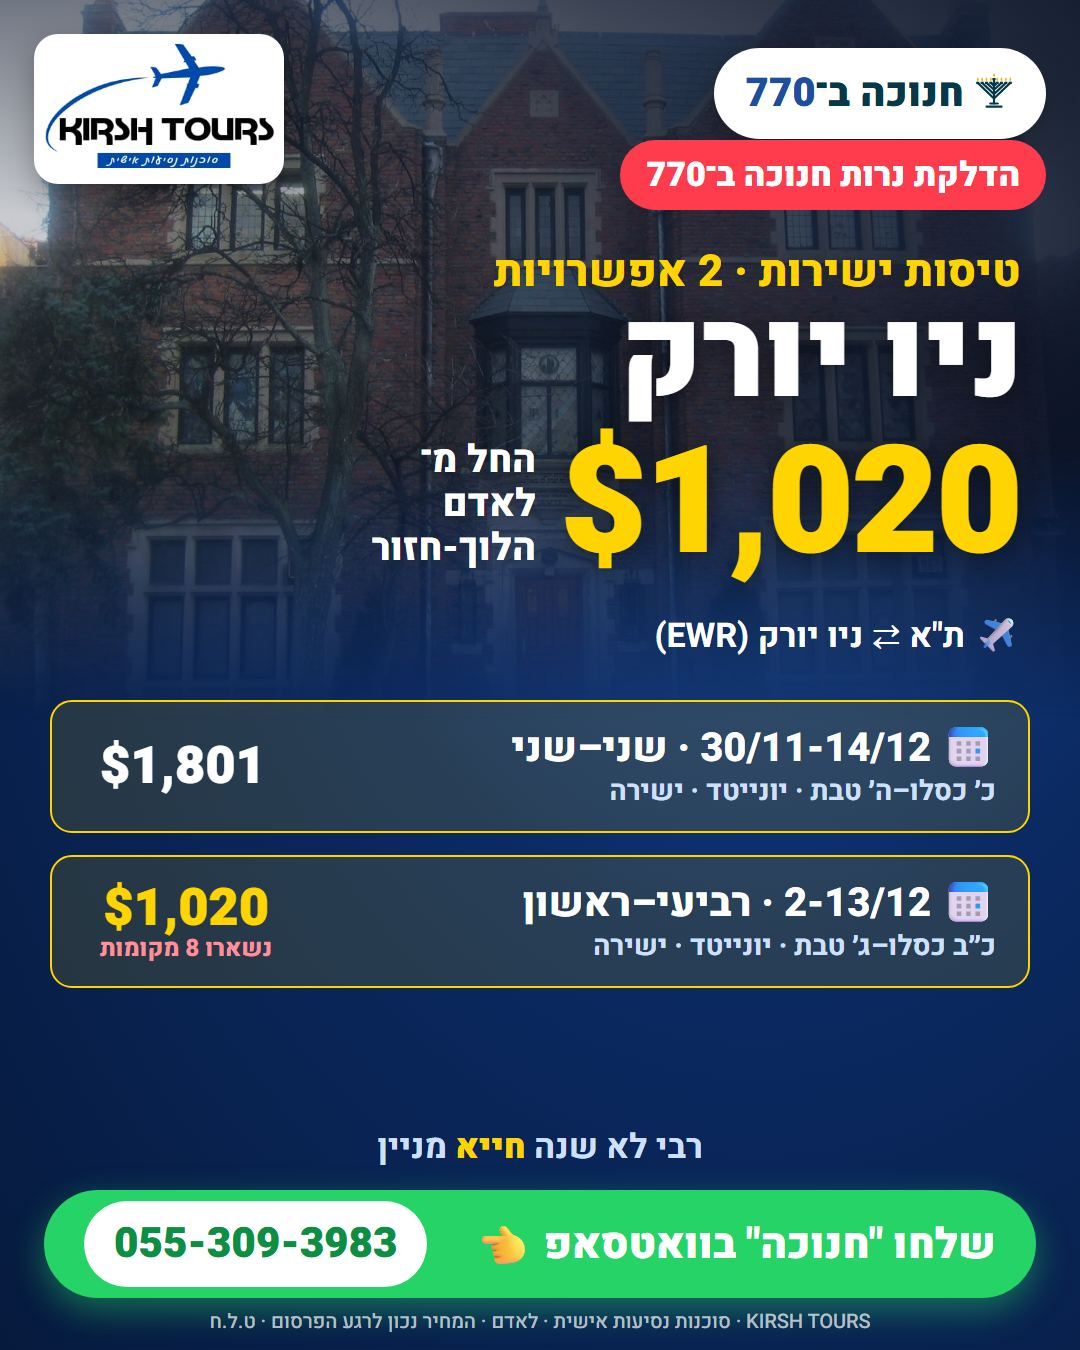
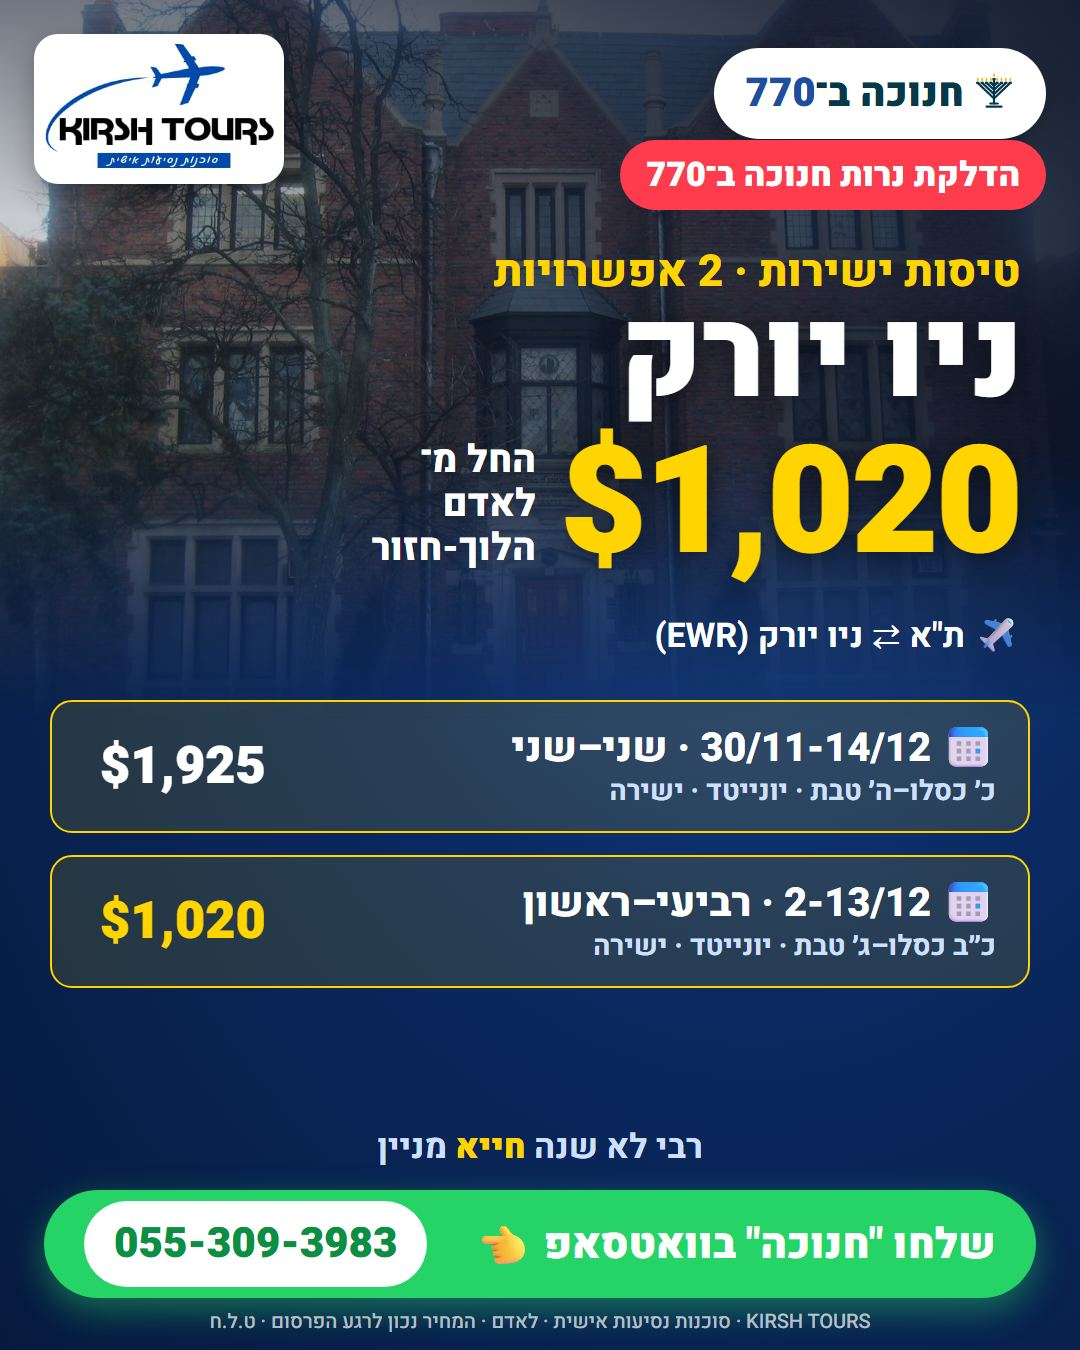
דילים 2026-11-11

Changed region(s): [[0.0917, 0.6533, 0.2444, 0.7156], [0.1528, 0.5289, 0.2444, 0.5911]]

diff --git a/770/hanukkah/index.html b/770/hanukkah/index.html
@@ -4,12 +4,12 @@
 <meta charset="utf-8">
 <meta name="viewport" content="width=device-width, initial-scale=1">
 <title>חנוכה ב-770: טיסה ישירה לניו יורק החל מ-$1,020 | Kirsh Tours</title>
-<meta name="description" content="טיסות לניו יורק לחנוכה ב-770: 30/11-14/12 יונייטד $1,801, 2-13/12 יונייטד $1,020. לאדם הלוך-חזור, עם ליווי אישי.">
+<meta name="description" content="טיסות לניו יורק לחנוכה ב-770: 30/11-14/12 יונייטד $1,925, 2-13/12 יונייטד $1,020. לאדם הלוך-חזור, עם ליווי אישי.">
 <meta property="og:type" content="website">
 <meta property="og:locale" content="he_IL">
 <meta property="og:site_name" content="Kirsh Tours">
 <meta property="og:title" content="חנוכה ב-770: טיסה ישירה לניו יורק החל מ-$1,020 | Kirsh Tours">
-<meta property="og:description" content="טיסות לניו יורק לחנוכה ב-770: 30/11-14/12 יונייטד $1,801, 2-13/12 יונייטד $1,020. לאדם הלוך-חזור, עם ליווי אישי.">
+<meta property="og:description" content="טיסות לניו יורק לחנוכה ב-770: 30/11-14/12 יונייטד $1,925, 2-13/12 יונייטד $1,020. לאדם הלוך-חזור, עם ליווי אישי.">
 <meta property="og:url" content="https://kirshtours.co.il/770/hanukkah/">
 <link rel="canonical" href="https://kirshtours.co.il/770/hanukkah/">
 
@@ -49,15 +49,15 @@
     <div class="block"><div class="kicker" data-reveal><b>01</b> בוחרים תאריך</div>
     <div class="dates"><div class="date" data-o="2026-11-30" data-exp="2026-11-25" data-reveal>
     <div class="when">30/11-14/12<span>שני–שני</span><span>כ׳ כסלו–ה׳ טבת</span></div>
-    <div class="p">$1,801<small>לאדם · הלוך-חזור</small></div>
-    <div class="fl"><b>יונייטד</b> · ישירה · EWR · מזוודה 23 ק"ג<span class="rowfresh" data-checked="2026-11-11T10:08:49.687Z"></span></div>
+    <div class="p">$1,925<small>לאדם · הלוך-חזור</small></div>
+    <div class="fl"><b>יונייטד</b> · ישירה · EWR · מזוודה 23 ק"ג<span class="rowfresh" data-checked="2026-11-11T12:06:22.243Z"></span></div>
     <div class="fl">הלוך: שני 30.11 · כ׳ כסלו, 11:30 · נחיתה 16:35</div>
     <div class="fl">חזור: שני 14.12 · ה׳ טבת, 20:40 (ליל שלישי) · נחיתה בארץ שלישי 15.12, 14:05</div>
   </div>
 <div class="date best" data-o="2026-12-02" data-exp="2026-11-25" data-reveal>
-    <div class="when">2-13/12<span>רביעי–ראשון</span><span>כ״ב כסלו–ג׳ טבת</span><span class="best-tag">הכי משתלם</span><span class="seats770 best-tag" data-checked="2026-11-11T10:08:49.687Z" hidden>נשארו 8 מקומות</span></div>
+    <div class="when">2-13/12<span>רביעי–ראשון</span><span>כ״ב כסלו–ג׳ טבת</span><span class="best-tag">הכי משתלם</span></div>
     <div class="p">$1,020<small>לאדם · הלוך-חזור</small></div>
-    <div class="fl"><b>יונייטד</b> · ישירה · EWR · מזוודה 23 ק"ג<span class="rowfresh" data-checked="2026-11-11T10:08:49.687Z"></span></div>
+    <div class="fl"><b>יונייטד</b> · ישירה · EWR · מזוודה 23 ק"ג<span class="rowfresh" data-checked="2026-11-11T12:06:22.243Z"></span></div>
     <div class="fl">הלוך: רביעי 2.12 · כ״ב כסלו, 11:30 · נחיתה 16:35</div>
     <div class="fl">חזור: ראשון 13.12 · ג׳ טבת, 15:55 · נחיתה בארץ שני 14.12, 09:20</div>
   </div></div>
@@ -77,14 +77,14 @@
   </div>
   <aside class="side" data-reveal style="--d:.2s"><div class="book">
     <div class="from">החל מ-<b>$1,020</b> לאדם הלוך-חזור</div>
-    <span class="fresh770" data-checked="2026-11-11T10:08:49.687Z" hidden></span>
+    <span class="fresh770" data-checked="2026-11-11T12:06:22.243Z" hidden></span>
     <a class="btn btn-gold" href="https://wa.me/972553093983?text=%D7%97%D7%A0%D7%95%D7%9B%D7%94%20-%20%D7%94%D7%99%D7%99%20%D7%97%D7%99%D7%99%D7%9D%2C%20%D7%A8%D7%90%D7%99%D7%AA%D7%99%20%D7%91%D7%90%D7%AA%D7%A8%20%D7%90%D7%AA%20%D7%94%D7%98%D7%99%D7%A1%D7%95%D7%AA%20%D7%9C-770%20%D7%9C%D7%97%D7%A0%D7%95%D7%9B%D7%94">שלחו "חנוכה" בוואטסאפ</a>
     <a class="wa-alt" href="https://chat.whatsapp.com/BcfctsrvwkJ3zMRZy6gM3L">להצטרף לקבוצת "טסים חכם ל-770"</a>
     <ul class="perks"><li>המקומות במחיר הזה מוגבלים</li></ul>
     <a class="wa-alt" href="../#groups">טסים כקבוצה או משפחה? לבקשת הצעה</a>
-    <a class="share" href="https://wa.me/?text=%D7%97%D7%A0%D7%95%D7%9B%D7%94%20%D7%91-770%20-%20%D7%98%D7%99%D7%A1%D7%94%20%D7%9C%D7%A0%D7%99%D7%95%20%D7%99%D7%95%D7%A8%D7%A7%20%D7%94%D7%97%D7%9C%20%D7%9E-%241%2C020%20%D7%9C%D7%90%D7%93%D7%9D%20%D7%94%D7%9C%D7%95%D7%9A-%D7%97%D7%96%D7%95%D7%A8%0A%0A30%2F11-14%2F12%20(%D7%9B%D7%B3%20%D7%9B%D7%A1%D7%9C%D7%95%E2%80%93%D7%94%D7%B3%20%D7%98%D7%91%D7%AA)%20%C2%B7%20%D7%99%D7%95%D7%A0%D7%99%D7%99%D7%98%D7%93%20%C2%B7%20%D7%99%D7%A9%D7%99%D7%A8%D7%94%20%C2%B7%20%241%2C801%0A2-13%2F12%20(%D7%9B%D7%B4%D7%91%20%D7%9B%D7%A1%D7%9C%D7%95%E2%80%93%D7%92%D7%B3%20%D7%98%D7%91%D7%AA)%20%C2%B7%20%D7%99%D7%95%D7%A0%D7%99%D7%99%D7%98%D7%93%20%C2%B7%20%D7%99%D7%A9%D7%99%D7%A8%D7%94%20%C2%B7%20%241%2C020%0A%0A%D7%9B%D7%9C%20%D7%94%D7%A4%D7%A8%D7%98%D7%99%D7%9D%20%D7%91%D7%90%D7%AA%D7%A8%3A%0Ahttps%3A%2F%2Fkirshtours.co.il%2F770%2Fhanukkah%2F%0A%0A%D7%A8%D7%95%D7%A6%D7%99%D7%9D%20%D7%9C%D7%A7%D7%91%D7%9C%20%D7%A8%D7%90%D7%A9%D7%95%D7%A0%D7%99%D7%9D%20%D7%9C%D7%A0%D7%99%D7%99%D7%93%20%D7%90%D7%AA%20%D7%94%D7%98%D7%99%D7%A1%D7%95%D7%AA%20%D7%94%D7%9E%D7%A9%D7%AA%D7%9C%D7%9E%D7%95%D7%AA%20%D7%91%D7%99%D7%95%D7%AA%D7%A8%20%D7%9C-770%3F%20%D7%94%D7%A6%D7%98%D7%A8%D7%A4%D7%95%20%D7%9C%D7%A7%D7%91%D7%95%D7%A6%D7%AA%20%22%D7%98%D7%A1%D7%99%D7%9D%20%D7%97%D7%9B%D7%9D%20%D7%9C-770%22%3A%0Ahttps%3A%2F%2Fchat.whatsapp.com%2FBcfctsrvwkJ3zMRZy6gM3L" data-share="חנוכה ב-770 - טיסה לניו יורק החל מ-$1,020 לאדם הלוך-חזור
+    <a class="share" href="https://wa.me/?text=%D7%97%D7%A0%D7%95%D7%9B%D7%94%20%D7%91-770%20-%20%D7%98%D7%99%D7%A1%D7%94%20%D7%9C%D7%A0%D7%99%D7%95%20%D7%99%D7%95%D7%A8%D7%A7%20%D7%94%D7%97%D7%9C%20%D7%9E-%241%2C020%20%D7%9C%D7%90%D7%93%D7%9D%20%D7%94%D7%9C%D7%95%D7%9A-%D7%97%D7%96%D7%95%D7%A8%0A%0A30%2F11-14%2F12%20(%D7%9B%D7%B3%20%D7%9B%D7%A1%D7%9C%D7%95%E2%80%93%D7%94%D7%B3%20%D7%98%D7%91%D7%AA)%20%C2%B7%20%D7%99%D7%95%D7%A0%D7%99%D7%99%D7%98%D7%93%20%C2%B7%20%D7%99%D7%A9%D7%99%D7%A8%D7%94%20%C2%B7%20%241%2C925%0A2-13%2F12%20(%D7%9B%D7%B4%D7%91%20%D7%9B%D7%A1%D7%9C%D7%95%E2%80%93%D7%92%D7%B3%20%D7%98%D7%91%D7%AA)%20%C2%B7%20%D7%99%D7%95%D7%A0%D7%99%D7%99%D7%98%D7%93%20%C2%B7%20%D7%99%D7%A9%D7%99%D7%A8%D7%94%20%C2%B7%20%241%2C020%0A%0A%D7%9B%D7%9C%20%D7%94%D7%A4%D7%A8%D7%98%D7%99%D7%9D%20%D7%91%D7%90%D7%AA%D7%A8%3A%0Ahttps%3A%2F%2Fkirshtours.co.il%2F770%2Fhanukkah%2F%0A%0A%D7%A8%D7%95%D7%A6%D7%99%D7%9D%20%D7%9C%D7%A7%D7%91%D7%9C%20%D7%A8%D7%90%D7%A9%D7%95%D7%A0%D7%99%D7%9D%20%D7%9C%D7%A0%D7%99%D7%99%D7%93%20%D7%90%D7%AA%20%D7%94%D7%98%D7%99%D7%A1%D7%95%D7%AA%20%D7%94%D7%9E%D7%A9%D7%AA%D7%9C%D7%9E%D7%95%D7%AA%20%D7%91%D7%99%D7%95%D7%AA%D7%A8%20%D7%9C-770%3F%20%D7%94%D7%A6%D7%98%D7%A8%D7%A4%D7%95%20%D7%9C%D7%A7%D7%91%D7%95%D7%A6%D7%AA%20%22%D7%98%D7%A1%D7%99%D7%9D%20%D7%97%D7%9B%D7%9D%20%D7%9C-770%22%3A%0Ahttps%3A%2F%2Fchat.whatsapp.com%2FBcfctsrvwkJ3zMRZy6gM3L" data-share="חנוכה ב-770 - טיסה לניו יורק החל מ-$1,020 לאדם הלוך-חזור
 
-30/11-14/12 (כ׳ כסלו–ה׳ טבת) · יונייטד · ישירה · $1,801
+30/11-14/12 (כ׳ כסלו–ה׳ טבת) · יונייטד · ישירה · $1,925
 2-13/12 (כ״ב כסלו–ג׳ טבת) · יונייטד · ישירה · $1,020
 
 כל הפרטים באתר:

diff --git a/770/index.html b/770/index.html
@@ -76,15 +76,15 @@
 <a class="e770" href="hanukkah/" data-exp="2026-11-25" data-mon="כסלו" data-reveal>
     <div class="ev">חנוכה ב־770</div><span class="count770" data-start="2026-12-04" data-end="2026-12-12" data-name="חנוכה" hidden></span>
     <p class="line">הדלקת נרות חנוכה ב־770</p>
-    <div class="from"><span class="pre">החל מ-</span><b>$1,020</b> לאדם הלוך-חזור</div><span class="fresh770" data-checked="2026-11-11T10:08:49.687Z" hidden></span>
-    <ul><li data-exp="2026-11-25" data-direct="1" data-stay="l" data-price="1801" data-checked="2026-11-11T10:08:49.687Z"><span>30/11-14/12 · שני–שני<small>כ׳ כסלו–ה׳ טבת · יונייטד · ישירה<span class="rowfresh" data-checked="2026-11-11T10:08:49.687Z"></span></small></span><b>$1,801</b></li><li data-exp="2026-11-25" data-direct="1" data-stay="l" data-price="1020" data-checked="2026-11-11T10:08:49.687Z"><span>2-13/12 · רביעי–ראשון<small>כ״ב כסלו–ג׳ טבת · יונייטד · ישירה<span class="rowfresh" data-checked="2026-11-11T10:08:49.687Z"></span><span class="seats770" data-checked="2026-11-11T10:08:49.687Z" hidden> · נשארו 8 מקומות</span></small></span><b>$1,020</b></li></ul>
+    <div class="from"><span class="pre">החל מ-</span><b>$1,020</b> לאדם הלוך-חזור</div><span class="fresh770" data-checked="2026-11-11T12:06:22.243Z" hidden></span>
+    <ul><li data-exp="2026-11-25" data-direct="1" data-stay="l" data-price="1925" data-checked="2026-11-11T12:06:22.243Z"><span>30/11-14/12 · שני–שני<small>כ׳ כסלו–ה׳ טבת · יונייטד · ישירה<span class="rowfresh" data-checked="2026-11-11T12:06:22.243Z"></span></small></span><b>$1,925</b></li><li data-exp="2026-11-25" data-direct="1" data-stay="l" data-price="1020" data-checked="2026-11-11T12:06:22.243Z"><span>2-13/12 · רביעי–ראשון<small>כ״ב כסלו–ג׳ טבת · יונייטד · ישירה<span class="rowfresh" data-checked="2026-11-11T12:06:22.243Z"></span></small></span><b>$1,020</b></li></ul>
     <span class="go">לשעות הטיסה ולפרטים <span class="arrow" aria-hidden="true">←</span></span>
   </a>
 <a class="e770" href="yud-shvat/" data-exp="2026-11-25" data-mon="שבט" data-reveal>
     <div class="ev">י׳ שבט ב־770</div><span class="count770" data-start="2027-01-18" data-end="2027-01-18" data-name="י&#39; שבט" hidden></span>
     <p class="line">יום ההילולא וקבלת הנשיאות ב־770</p>
-    <div class="from"><span class="pre">החל מ-</span><b>$869</b> לאדם הלוך-חזור</div><span class="fresh770" data-checked="2026-11-11T10:12:50.020Z" hidden></span>
-    <ul><li data-exp="2026-11-25" data-direct="1" data-stay="l" data-price="1376" data-checked="2026-11-11T10:12:50.020Z"><span>10-19/1 · ראשון–שלישי<small>ב׳–י״א שבט · דלתא · ישירה<span class="rowfresh" data-checked="2026-11-11T10:12:50.020Z"></span><span class="seats770" data-checked="2026-11-11T10:12:50.020Z" hidden> · נשארו 6 מקומות</span></small></span><b>$1,376</b></li><li data-exp="2026-11-25" data-direct="1" data-stay="l" data-price="1455" data-checked="2026-11-11T10:12:50.020Z"><span>11-19/1 · שני–שלישי<small>ג׳–י״א שבט · דלתא · ישירה<span class="rowfresh" data-checked="2026-11-11T10:12:50.020Z"></span><span class="seats770" data-checked="2026-11-11T10:12:50.020Z" hidden> · נשארו 6 מקומות</span></small></span><b>$1,455</b></li><li data-exp="2026-11-25" data-direct="1" data-stay="m" data-price="1231" data-checked="2026-11-11T10:12:50.020Z"><span>12-19/1 · שלישי–שלישי<small>ד׳–י״א שבט · דלתא · ישירה<span class="rowfresh" data-checked="2026-11-11T10:12:50.020Z"></span><span class="seats770" data-checked="2026-11-11T10:12:50.020Z" hidden> · נשארו 6 מקומות</span></small></span><b>$1,231</b></li><li data-exp="2026-11-25" data-direct="1" data-stay="m" data-price="1231" data-checked="2026-11-11T10:12:50.020Z"><span>13-19/1 · רביעי–שלישי<small>ה׳–י״א שבט · דלתא · ישירה<span class="rowfresh" data-checked="2026-11-11T10:12:50.020Z"></span><span class="seats770" data-checked="2026-11-11T10:12:50.020Z" hidden> · נשארו 6 מקומות</span></small></span><b>$1,231</b></li><li data-exp="2026-11-25" data-direct="0" data-stay="m" data-price="869" data-checked="2026-11-11T10:12:50.020Z"><span>14-20/1 · חמישי–רביעי<small>ו׳–י״ב שבט · ITA · עצירה קצרה ברומא<span class="rowfresh" data-checked="2026-11-11T10:12:50.020Z"></span></small></span><b>$869</b></li></ul>
+    <div class="from"><span class="pre">החל מ-</span><b>$869</b> לאדם הלוך-חזור</div><span class="fresh770" data-checked="2026-11-11T12:08:17.317Z" hidden></span>
+    <ul><li data-exp="2026-11-25" data-direct="1" data-stay="l" data-price="1376" data-checked="2026-11-11T12:08:17.317Z"><span>10-19/1 · ראשון–שלישי<small>ב׳–י״א שבט · דלתא · ישירה<span class="rowfresh" data-checked="2026-11-11T12:08:17.317Z"></span><span class="seats770" data-checked="2026-11-11T12:08:17.317Z" hidden> · נשארו 6 מקומות</span></small></span><b>$1,376</b></li><li data-exp="2026-11-25" data-direct="1" data-stay="l" data-price="1455" data-checked="2026-11-11T12:08:17.317Z"><span>11-19/1 · שני–שלישי<small>ג׳–י״א שבט · דלתא · ישירה<span class="rowfresh" data-checked="2026-11-11T12:08:17.317Z"></span><span class="seats770" data-checked="2026-11-11T12:08:17.317Z" hidden> · נשארו 6 מקומות</span></small></span><b>$1,455</b></li><li data-exp="2026-11-25" data-direct="1" data-stay="m" data-price="1231" data-checked="2026-11-11T12:08:17.317Z"><span>12-19/1 · שלישי–שלישי<small>ד׳–י״א שבט · דלתא · ישירה<span class="rowfresh" data-checked="2026-11-11T12:08:17.317Z"></span><span class="seats770" data-checked="2026-11-11T12:08:17.317Z" hidden> · נשארו 6 מקומות</span></small></span><b>$1,231</b></li><li data-exp="2026-11-25" data-direct="1" data-stay="m" data-price="1231" data-checked="2026-11-11T12:08:17.317Z"><span>13-19/1 · רביעי–שלישי<small>ה׳–י״א שבט · דלתא · ישירה<span class="rowfresh" data-checked="2026-11-11T12:08:17.317Z"></span><span class="seats770" data-checked="2026-11-11T12:08:17.317Z" hidden> · נשארו 6 מקומות</span></small></span><b>$1,231</b></li><li data-exp="2026-11-25" data-direct="0" data-stay="m" data-price="869" data-checked="2026-11-11T12:08:17.317Z"><span>14-20/1 · חמישי–רביעי<small>ו׳–י״ב שבט · ITA · עצירה קצרה ברומא<span class="rowfresh" data-checked="2026-11-11T12:08:17.317Z"></span></small></span><b>$869</b></li></ul>
     <span class="go">לשעות הטיסה ולפרטים <span class="arrow" aria-hidden="true">←</span></span>
   </a>
 <a class="e770" href="kinus-shluchos/" data-exp="2026-11-25" data-mon="שבט" data-reveal>

diff --git a/770/yud-shvat/index.html b/770/yud-shvat/index.html
@@ -48,37 +48,37 @@
   <div>
     <div class="block"><div class="kicker" data-reveal><b>01</b> בוחרים תאריך</div>
     <div class="dates"><div class="date" data-o="2027-01-10" data-exp="2026-11-25" data-reveal>
-    <div class="when">10-19/1<span>ראשון–שלישי</span><span>ב׳–י״א שבט</span><span class="seats770 best-tag" data-checked="2026-11-11T10:12:50.020Z" hidden>נשארו 6 מקומות</span></div>
+    <div class="when">10-19/1<span>ראשון–שלישי</span><span>ב׳–י״א שבט</span><span class="seats770 best-tag" data-checked="2026-11-11T12:08:17.317Z" hidden>נשארו 6 מקומות</span></div>
     <div class="p">$1,376<small>לאדם · הלוך-חזור</small></div>
-    <div class="fl"><b>דלתא</b> · ישירה · JFK · מזוודה 23 ק"ג<span class="rowfresh" data-checked="2026-11-11T10:12:50.020Z"></span></div>
+    <div class="fl"><b>דלתא</b> · ישירה · JFK · מזוודה 23 ק"ג<span class="rowfresh" data-checked="2026-11-11T12:08:17.317Z"></span></div>
     <div class="fl">הלוך: ראשון 10.1 · ב׳ שבט, 11:05 · נחיתה 16:53</div>
     <div class="fl">חזור: שלישי 19.1 · י״א שבט, 15:25 · נחיתה בארץ רביעי 20.1, 08:50</div>
   </div>
 <div class="date" data-o="2027-01-11" data-exp="2026-11-25" data-reveal>
-    <div class="when">11-19/1<span>שני–שלישי</span><span>ג׳–י״א שבט</span><span class="seats770 best-tag" data-checked="2026-11-11T10:12:50.020Z" hidden>נשארו 6 מקומות</span></div>
+    <div class="when">11-19/1<span>שני–שלישי</span><span>ג׳–י״א שבט</span><span class="seats770 best-tag" data-checked="2026-11-11T12:08:17.317Z" hidden>נשארו 6 מקומות</span></div>
     <div class="p">$1,455<small>לאדם · הלוך-חזור</small></div>
-    <div class="fl"><b>דלתא</b> · ישירה · JFK · מזוודה 23 ק"ג<span class="rowfresh" data-checked="2026-11-11T10:12:50.020Z"></span></div>
+    <div class="fl"><b>דלתא</b> · ישירה · JFK · מזוודה 23 ק"ג<span class="rowfresh" data-checked="2026-11-11T12:08:17.317Z"></span></div>
     <div class="fl">הלוך: שני 11.1 · ג׳ שבט, 11:05 · נחיתה 16:53</div>
     <div class="fl">חזור: שלישי 19.1 · י״א שבט, 15:25 · נחיתה בארץ רביעי 20.1, 08:50</div>
   </div>
 <div class="date" data-o="2027-01-12" data-exp="2026-11-25" data-reveal>
-    <div class="when">12-19/1<span>שלישי–שלישי</span><span>ד׳–י״א שבט</span><span class="seats770 best-tag" data-checked="2026-11-11T10:12:50.020Z" hidden>נשארו 6 מקומות</span></div>
+    <div class="when">12-19/1<span>שלישי–שלישי</span><span>ד׳–י״א שבט</span><span class="seats770 best-tag" data-checked="2026-11-11T12:08:17.317Z" hidden>נשארו 6 מקומות</span></div>
     <div class="p">$1,231<small>לאדם · הלוך-חזור</small></div>
-    <div class="fl"><b>דלתא</b> · ישירה · JFK · מזוודה 23 ק"ג<span class="rowfresh" data-checked="2026-11-11T10:12:50.020Z"></span></div>
+    <div class="fl"><b>דלתא</b> · ישירה · JFK · מזוודה 23 ק"ג<span class="rowfresh" data-checked="2026-11-11T12:08:17.317Z"></span></div>
     <div class="fl">הלוך: שלישי 12.1 · ד׳ שבט, 11:05 · נחיתה 16:53</div>
     <div class="fl">חזור: שלישי 19.1 · י״א שבט, 15:25 · נחיתה בארץ רביעי 20.1, 08:50</div>
   </div>
 <div class="date" data-o="2027-01-13" data-exp="2026-11-25" data-reveal>
-    <div class="when">13-19/1<span>רביעי–שלישי</span><span>ה׳–י״א שבט</span><span class="seats770 best-tag" data-checked="2026-11-11T10:12:50.020Z" hidden>נשארו 6 מקומות</span></div>
+    <div class="when">13-19/1<span>רביעי–שלישי</span><span>ה׳–י״א שבט</span><span class="seats770 best-tag" data-checked="2026-11-11T12:08:17.317Z" hidden>נשארו 6 מקומות</span></div>
     <div class="p">$1,231<small>לאדם · הלוך-חזור</small></div>
-    <div class="fl"><b>דלתא</b> · ישירה · JFK · מזוודה 23 ק"ג<span class="rowfresh" data-checked="2026-11-11T10:12:50.020Z"></span></div>
+    <div class="fl"><b>דלתא</b> · ישירה · JFK · מזוודה 23 ק"ג<span class="rowfresh" data-checked="2026-11-11T12:08:17.317Z"></span></div>
     <div class="fl">הלוך: רביעי 13.1 · ה׳ שבט, 11:05 · נחיתה 16:53</div>
     <div class="fl">חזור: שלישי 19.1 · י״א שבט, 15:25 · נחיתה בארץ רביעי 20.1, 08:50</div>
   </div>
 <div class="date best" data-o="2027-01-14" data-exp="2026-11-25" data-reveal>
     <div class="when">14-20/1<span>חמישי–רביעי</span><span>ו׳–י״ב שבט</span><span class="best-tag">הכי משתלם</span></div>
     <div class="p">$869<small>לאדם · הלוך-חזור</small></div>
-    <div class="fl"><b>ITA</b> · עצירה קצרה ברומא · JFK · מזוודה 23 ק"ג<span class="rowfresh" data-checked="2026-11-11T10:12:50.020Z"></span></div>
+    <div class="fl"><b>ITA</b> · עצירה קצרה ברומא · JFK · מזוודה 23 ק"ג<span class="rowfresh" data-checked="2026-11-11T12:08:17.317Z"></span></div>
     <div class="fl">הלוך: חמישי 14.1 · ו׳ שבט, 05:15 · נחיתה 14:15 · עצירה של שעתיים ו-10 דק&#39; ברומא</div>
     <div class="fl">חזור: רביעי 20.1 · י״ב שבט, 16:40 · נחיתה בארץ חמישי 21.1, 13:30 · עצירה של שעתיים ו-5 דק&#39; ברומא</div>
   </div></div>
@@ -98,7 +98,7 @@
   </div>
   <aside class="side" data-reveal style="--d:.2s"><div class="book">
     <div class="from">החל מ-<b>$869</b> לאדם הלוך-חזור</div>
-    <span class="fresh770" data-checked="2026-11-11T10:12:50.020Z" hidden></span>
+    <span class="fresh770" data-checked="2026-11-11T12:08:17.317Z" hidden></span>
     <a class="btn btn-gold" href="https://wa.me/972553093983?text=%D7%A9%D7%91%D7%98%20-%20%D7%94%D7%99%D7%99%20%D7%97%D7%99%D7%99%D7%9D%2C%20%D7%A8%D7%90%D7%99%D7%AA%D7%99%20%D7%91%D7%90%D7%AA%D7%A8%20%D7%90%D7%AA%20%D7%94%D7%98%D7%99%D7%A1%D7%95%D7%AA%20%D7%9C-770%20%D7%9C%D7%99%D7%B3%20%D7%A9%D7%91%D7%98">שלחו "שבט" בוואטסאפ</a>
     <a class="wa-alt" href="https://chat.whatsapp.com/BcfctsrvwkJ3zMRZy6gM3L">להצטרף לקבוצת "טסים חכם ל-770"</a>
     <ul class="perks"><li>המקומות במחיר הזה מוגבלים</li></ul>
